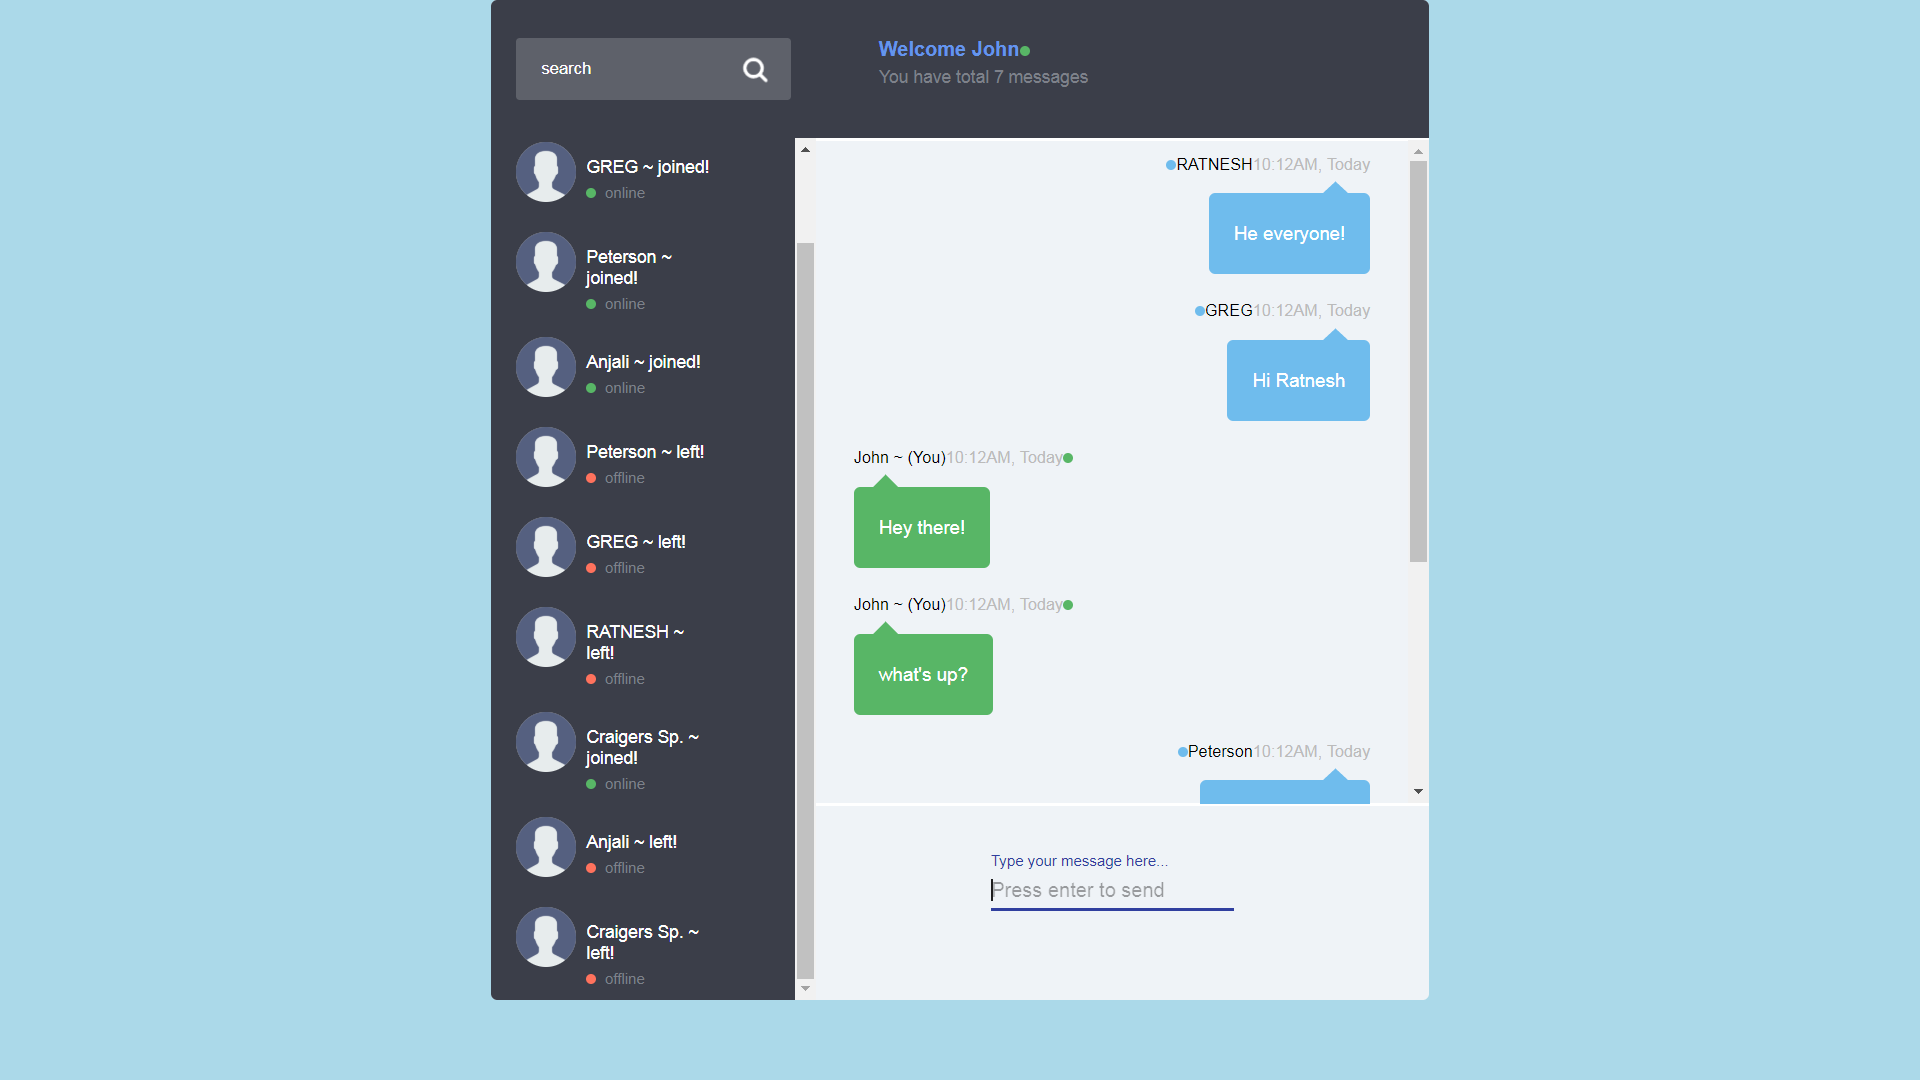
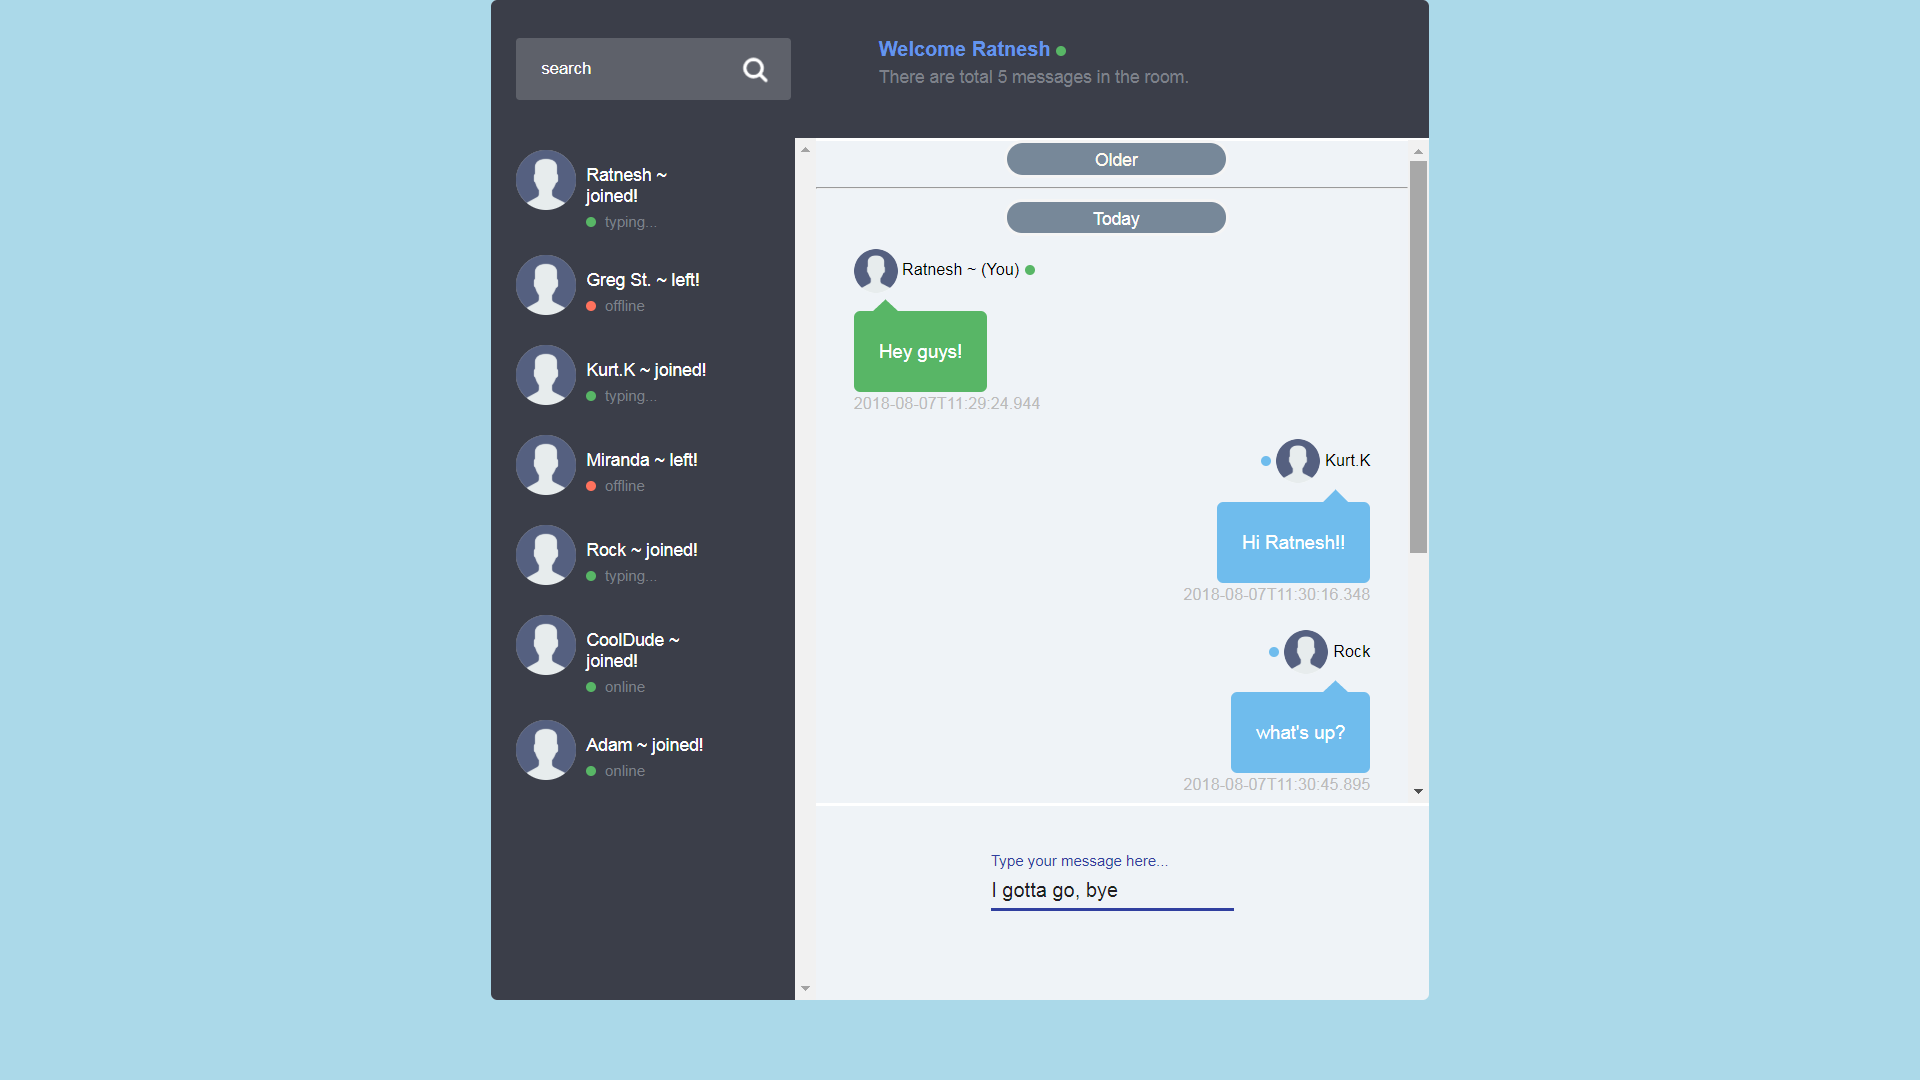
Broadcast notifications when users are typing

diff --git a/Client/src/ChatBoxComponent.js b/Client/src/ChatBoxComponent.js
@@ -65,22 +65,25 @@ export default class ChatBoxComponent extends Component {
     })
   }
 
-  sendMessage = (event) => {
+  sendMessage = (type,value) => {
 
     if (stompClient) {
       var chatMessage = {
         sender: this.state.username,
-        content: this.state.chatMessage,
-        type: 'CHAT'
+        content: type==='TYPING' ? value : this.state.chatMessage,
+        type: type
 
       };
 
       stompClient.send("/app/sendMessage", {}, JSON.stringify(chatMessage));
 
       // clear message text box after sending the message
-      this.setState({
-        chatMessage: ''
-      })
+      if (type === "CHAT") {
+        this.setState({
+          chatMessage: ''
+        })
+      }
+
 
     }
   }
@@ -95,14 +98,43 @@ export default class ChatBoxComponent extends Component {
       this.setState({
         roomNotification: this.state.roomNotification
       })
-    } else if (message.type === 'LEAVE') {
 
-      this.state.roomNotification.push({ 'sender': message.sender + " ~ left!", 'status': 'offline' })
-
+    } 
+    else if (message.type === 'LEAVE') {
+      for (var i = 0; i < this.state.roomNotification.length; i++) {
+        if (this.state.roomNotification[i].sender === message.sender + " ~ joined!") {
+          this.state.roomNotification[i].status = "offline";
+          this.state.roomNotification[i].sender = message.sender + " ~ left!";
+          break;
+        }
+      }
       this.setState({
         roomNotification: this.state.roomNotification
       })
-    } else {
+    }
+    else if (message.type === 'TYPING') {
+      for ( i = 0; i < this.state.roomNotification.length; i++) {
+        if (this.state.roomNotification[i].sender === message.sender + " ~ joined!") {
+          if(message.content)
+          this.state.roomNotification[i].status = "typing...";
+          else
+          this.state.roomNotification[i].status = "online";
+          break;
+        }
+      }
+      this.setState({
+        roomNotification: this.state.roomNotification
+      })
+    } 
+    else if (message.type === 'CHAT') {
+
+      for ( i = 0; i < this.state.roomNotification.length; i++) {
+        if (this.state.roomNotification[i].sender === message.sender + " ~ joined!") {
+          this.state.roomNotification[i].status = "online";
+          break;
+        }
+      }
+
       this.state.broadcastMessage.push({
         message: message.content,
         sender: message.sender,
@@ -110,8 +142,12 @@ export default class ChatBoxComponent extends Component {
       })
 
       this.setState({
-        broadcastMessage: this.state.broadcastMessage
+        broadcastMessage: this.state.broadcastMessage,
+       
       })
+    }
+    else {
+     // do nothing...
     }
   }
 
@@ -119,22 +155,25 @@ export default class ChatBoxComponent extends Component {
     alert('History Not Available!\nIt is Not Yet Implemented!');
   }
 
-  handleChange = (event) => {
+  handleUserNameChange = (event) => {
     this.setState({
       username: event.target.value,
     });
   };
 
   handleChatMSGChange = (event) => {
+
     this.setState({
       chatMessage: event.target.value,
     });
+      this.sendMessage('TYPING',event.target.value);
+    
   };
 
   scrollToBottom = () => {
     var object = this.refs.messageBox;
-    if(object)
-    object.scrollTop = object.scrollHeight;
+    if (object)
+      object.scrollTop = object.scrollHeight;
   }
 
   // getRandomColor = () => {
@@ -150,7 +189,7 @@ export default class ChatBoxComponent extends Component {
     if (this.state.error) {
       throw new Error('Unable to connect to chat room server.');
     }
-    else{
+    else {
       this.scrollToBottom();
     }
   }
@@ -178,19 +217,20 @@ export default class ChatBoxComponent extends Component {
                     <div>
                       <h2>{notification.sender}</h2>
                       <h3>
-                        {notification.status === 'online' ? <span className="status green"></span> : <span className="status orange"></span>}
+                        {notification.status === 'online' || notification.status === 'typing...' ? <span className="status green"></span>:<span className="status orange"></span>}
                         {notification.status}
                       </h3>
                     </div>
                   </li>
-                )} </ul> </aside>
+                )} </ul>
+            </aside>
           ) : (
             <div>
               <TextField
                 id="user"
                 label="Type your username"
                 placeholder="Username"
-                onChange={this.handleChange}
+                onChange={this.handleUserNameChange}
                 margin="normal"
               />
               <br />
@@ -207,7 +247,7 @@ export default class ChatBoxComponent extends Component {
                 <header>
                   <div>
                     <h2>Welcome {this.state.username} <span> </span> <span className="status green"></span></h2>
-                    <h3>You have total {this.state.broadcastMessage.length} messages</h3>
+                    <h3>There are total {this.state.broadcastMessage.length} messages in the room.</h3>
                   </div>
                 </header>
                 <ul id="chat" ref="messageBox">
@@ -218,9 +258,9 @@ export default class ChatBoxComponent extends Component {
                       <li className="you" key={i}>
                         <div className="entete">
                           <h2><img src={userImage} alt="Default-User" className="avatar" />
+                            <span> </span>
+                            {msg.sender} ~ (You)</h2>
                           <span> </span>
-                          {msg.sender} ~ (You)</h2>
-                          <span> </span> 
                           <span className="status green"></span>
                         </div>
                         <div className="triangle"></div>
@@ -245,7 +285,9 @@ export default class ChatBoxComponent extends Component {
                         <div><h3>{msg.dateTime}</h3></div>
                       </li>
                   )}
+
                 </ul>
+
                 <footer>
                   <TextField
                     id="msg"
@@ -256,7 +298,7 @@ export default class ChatBoxComponent extends Component {
                     value={this.state.chatMessage}
                     onKeyPress={event => {
                       if (event.key === 'Enter') {
-                        this.sendMessage();
+                        this.sendMessage('CHAT');
                       }
                     }}
                   />

diff --git a/Server/src/main/java/com/example/websocketdemo/model/ChatMessage.java b/Server/src/main/java/com/example/websocketdemo/model/ChatMessage.java
@@ -12,7 +12,8 @@ public class ChatMessage {
     public enum MessageType {
         CHAT,
         JOIN,
-        LEAVE
+        LEAVE,
+        TYPING
     }
 
     public MessageType getType() {

diff --git a/README.md b/README.md
@@ -65,6 +65,15 @@ To have the Webpack development server proxy our requests to our Server, we just
 
 <code>"proxy": "http://localhost:8080/", </code>
 
+Features
+===============
+* Built with Spring Boot
+* User login
+* Chat message broadcasting (no private message support for now)
+* Presence tracking sending notifications when users join / leave
+* Broadcast notifications when users are typing
+
+
 Finally
 =============
 Boot both the Server and Client apps and you're in the business. Enter any username and click Start Chatting button to enter into the chat room. If no one is available in the chat room, then you can open the app in two tabs, login with different usernames and start sending messages. You will see the below chat room UI
